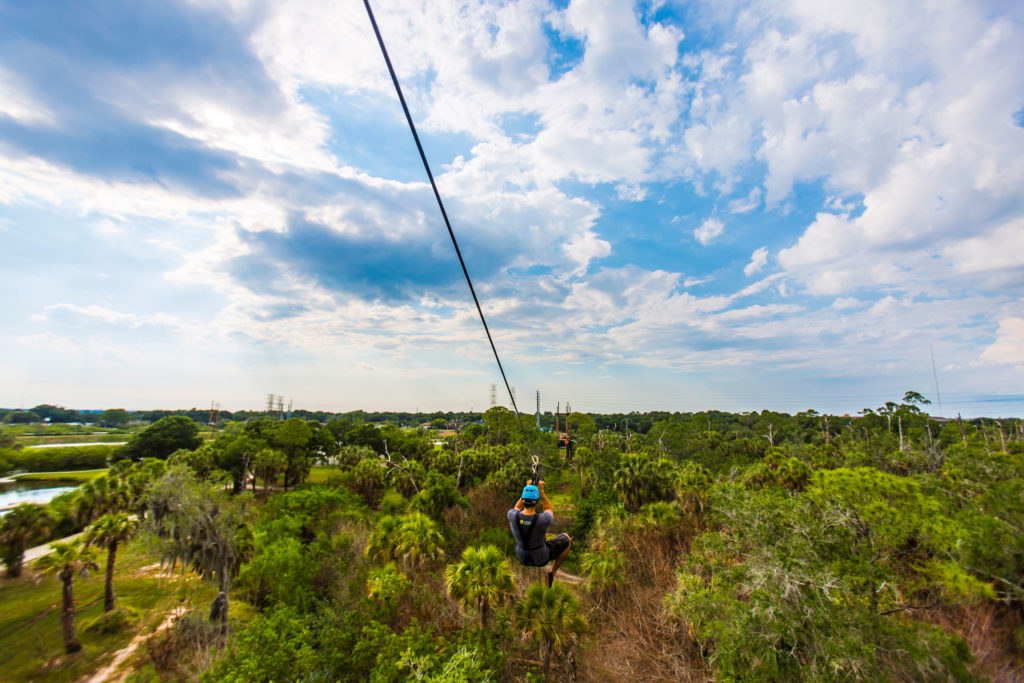
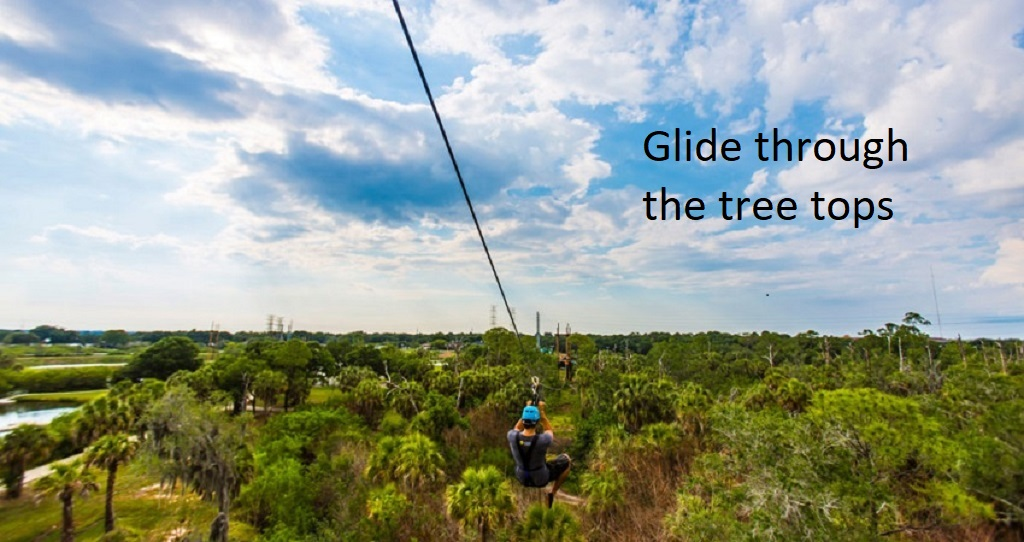
Uploaded new photos for slide

diff --git a/code/stacy/HTML_CSS_Flask/lab03/index.html b/code/stacy/HTML_CSS_Flask/lab03/index.html
@@ -191,21 +191,21 @@ Body:
         <div class="carousel-inner">
           <div class="carousel-item active"> 
             <img src="zipline1.jpg" class="img-fluid">
-            <div class="d-flex text-black position-absolute top-0 end-0 text-center translate-middle-x fs-4" style="width: 10rem; margin-right: 3rem; margin-top: 6rem;">
+            <!-- <div class="d-flex text-black position-absolute top-0 end-0 text-center translate-middle-x fs-4" style="width: 10rem; margin-right: 3rem; margin-top: 6rem;">
             Glide through the tree tops for an unforgetable view
-            </div>
+            </div> -->
           </div>
           <div class="carousel-item">
             <img src="zipline2.jpg" class="img-fluid">
-            <div class="d-flex text-black position-absolute top-0 end-0 text-center fs-4" style="width: 10rem; margin-right: 3rem; margin-top: 3rem;">
-            Feel the wind on you face as you fly across the water 
-            </div>
+            <!-- <div class="d-flex text-black position-absolute top-0 end-0 text-center fs-4" style="width: 10rem; margin-right: 3rem; margin-top: 3rem;">
+            Feel the wind on your face as you fly across the water 
+            </div> -->
           </div>
           <div class="carousel-item" >
             <img src="zipline3.jpg" class="img-fluid">
-            <div class="d-flex text-black position-absolute top-0 end-0 text-center fs-4" style="width: 10rem;">
+            <!-- <div class="d-flex text-black position-absolute top-0 end-0 text-center fs-4" style="width: 10rem;">
               Climb bridges to gain height for a faster ziplining experience!
-            </div>
+            </div> -->
           </div>
         </div>
         <button class="carousel-control-prev" type="button" data-bs-target="#carouselExampleControls" data-bs-slide="prev">
